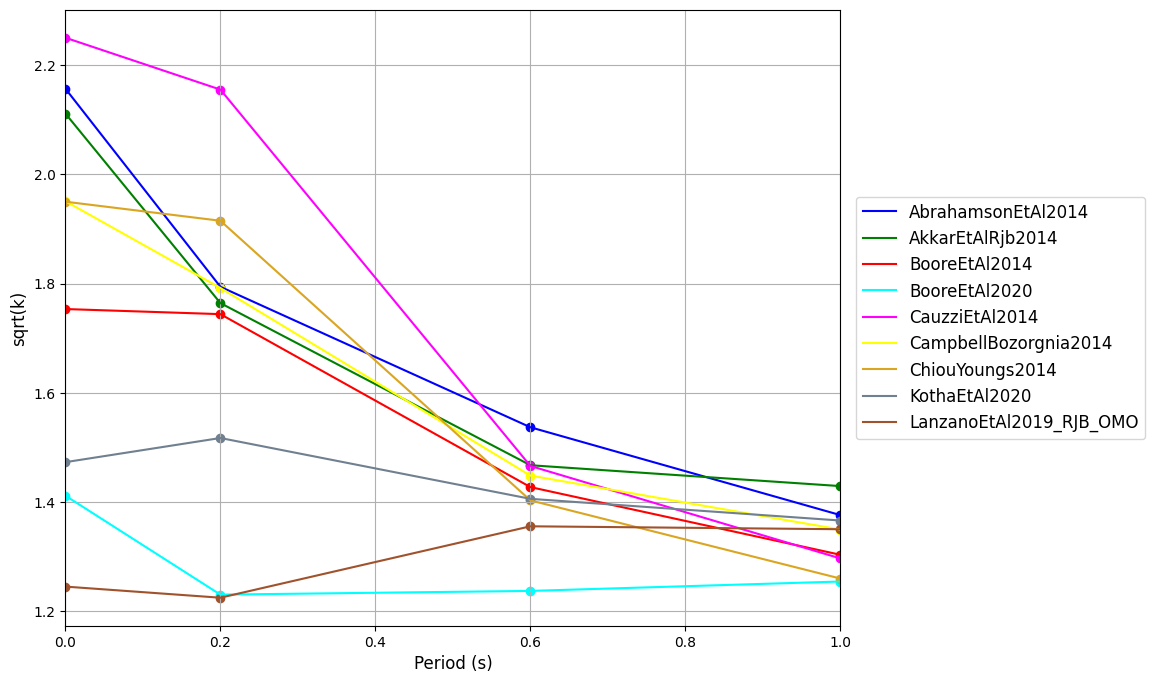
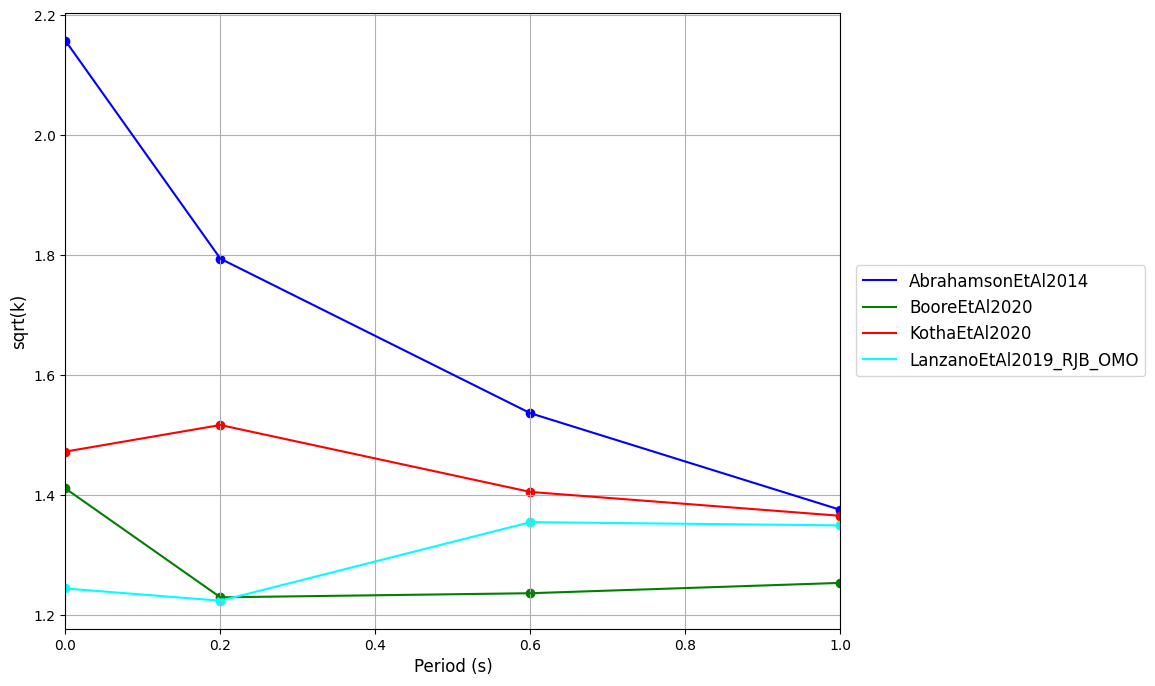
reduce residuals demo

diff --git a/openquake/smt/tests/residuals/residuals_test.py b/openquake/smt/tests/residuals/residuals_test.py
@@ -110,28 +110,26 @@ EXP_STATIONS = [{gsim: RES_STATIONS.read(
     gsim, idx) for gsim in GSIMS} for idx in range(8)]
 
 
-def _context(obs, mean, sigma):
-    # Predictions have already been restricted to retained observations
-    obs = np.asarray(obs, dtype=float)
-    return {
-        'Observations': {'PGA': np.exp(obs)},
-        'Retained': {'PGA': np.flatnonzero(~np.isnan(obs))},
-        'Expected': {'model': {'PGA': {
-            'Mean': np.asarray(mean, dtype=float),
-            'Total': np.broadcast_to(sigma, np.shape(mean))}}}}
-
-
-def _score(contexts, num_samples=1000):
-    # Bypass GSIM construction to isolate the metric from model evaluation
-    residuals = object.__new__(res.Residuals)
-    residuals.gmpe_list = {'model': None}
-    residuals.imts = ['PGA']
-    residuals.contexts = contexts
-    residuals.get_sto_wrt_imt(num_samples=num_samples)
-    return residuals.stoch_areas_wrt_imt['model']['PGA']
-
-
 class StochasticAreaTestCase(unittest.TestCase):
+    def _context(self, obs, mean, sigma):
+        # Predictions have already been restricted to retained observations
+        obs = np.asarray(obs, dtype=float)
+        return {
+            'Observations': {'PGA': np.exp(obs)},
+            'Retained': {'PGA': np.flatnonzero(~np.isnan(obs))},
+            'Expected': {'model': {'PGA': {
+                'Mean': np.asarray(mean, dtype=float),
+                'Total': np.broadcast_to(sigma, np.shape(mean))}}}}
+
+    def _score(self, contexts, num_samples=1000):
+        # Bypass GSIM construction to isolate the metric from model evaluation
+        residuals = object.__new__(res.Residuals)
+        residuals.gmpe_list = {'model': None}
+        residuals.imts = ['PGA']
+        residuals.contexts = contexts
+        residuals.get_sto_wrt_imt(num_samples=num_samples)
+        return residuals.stoch_areas_wrt_imt['model']['PGA']
+
     def test_empirical_distributions(self):
         # Zero sigma gives exact empirical distributions, including ties
         cases = [([0, 1, 2], [3, 4, 5], 3.),
@@ -139,8 +137,8 @@ class StochasticAreaTestCase(unittest.TestCase):
                  ([0, 1, 2], [0, 2, 2], 1 / 3)]
         for obs, mean, expected in cases:
             with self.subTest(obs=obs, mean=mean):
-                assert_allclose(_score([_context(obs, mean, 0.)]), expected,
-                                atol=1E-14)
+                got = self._score([self._context(obs, mean, 0.)])
+                assert_allclose(got, expected, atol=1E-14)
 
     def test_gaussian_and_convergence(self):
         # W1 between a point and a Gaussian is the folded-normal mean
@@ -148,18 +146,19 @@ class StochasticAreaTestCase(unittest.TestCase):
             with self.subTest(offset=offset, sigma=sigma):
                 expected = (2 * sigma * norm.pdf(offset / sigma)
                             + offset * (2 * norm.cdf(offset / sigma) - 1))
-                got = _score([_context([0.], [offset], sigma)])
+                got = self._score([self._context([0.], [offset], sigma)])
                 assert_allclose(got, expected, atol=5E-04, rtol=0)
-        context = [_context([0.], [0.], 1.)]
+        context = [self._context([0.], [0.], 1.)]
         expected = np.sqrt(2 / np.pi)
-        coarse, fine = [_score(context, n) for n in (100, 10000)]
+        coarse, fine = [self._score(context, n) for n in (100, 10000)]
         self.assertLess(abs(fine - expected), abs(coarse - expected))
 
     def test_missing_observations(self):
-        together = _context([0., 1., 3.], [0., 2., 4.], [0.1, 0.5, 2.])
+        together = self._context([0., 1., 3.], [0., 2., 4.], [0.1, 0.5, 2.])
         # Predictions have already been restricted to retained observations
-        missing = _context([0., np.nan, 1., 3.], [0., 2., 4.], [0.1, 0.5, 2.])
-        assert_allclose(_score([missing]), _score([together]))
+        missing = self._context([0., np.nan, 1., 3.], [0., 2., 4.],
+                                [0.1, 0.5, 2.])
+        assert_allclose(self._score([missing]), self._score([together]))
 
 
 class ResidualsTestCase(unittest.TestCase):

diff --git a/docsrc/contents/smt.rst b/docsrc/contents/smt.rst
@@ -78,12 +78,7 @@ We can specify the inputs to perform a residual analysis with as follows:
     
         > # Specify some GMPEs and intensity measures within a list
         > gmpe_list = ['AbrahamsonEtAl2014',
-        >              'AkkarEtAlRjb2014',
-        >              'BooreEtAl2014',
         >              'BooreEtAl2020',
-        >              'CauzziEtAl2014',
-        >              'CampbellBozorgnia2014',
-        >              'ChiouYoungs2014',
         >              'KothaEtAl2020',
         >              'LanzanoEtAl2019_RJB_OMO']
         > imt_list = ['PGA', 'SA(0.2)', 'SA(0.6)', 'SA(1.0)']
@@ -98,17 +93,7 @@ We can specify the inputs to perform a residual analysis with as follows:
     
        [models.AbrahamsonEtAl2014]
         
-       [models.AkkarEtAlRjb2014]
-        
-       [models.BooreEtAl2014]
-        
        [models.BooreEtAl2020]
-        
-       [models.CauzziEtAl2014]
-        
-       [models.CampbellBozorgnia2014]
-        
-       [models.ChiouYoungs2014]
         
        [models.KothaEtAl2020]
        
